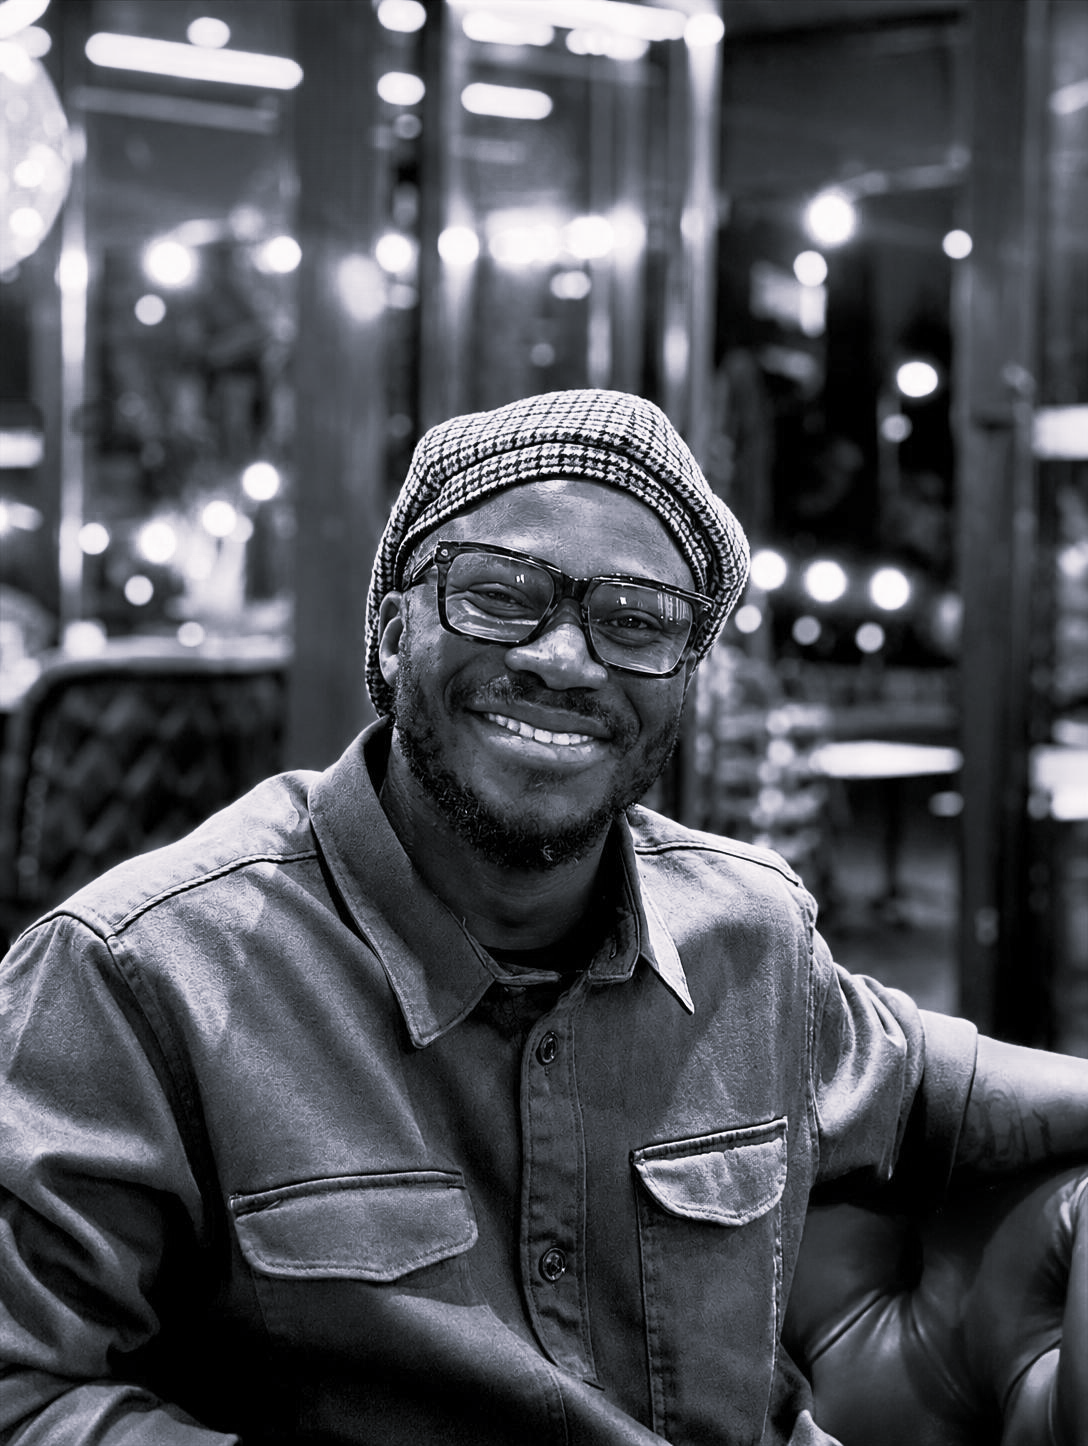
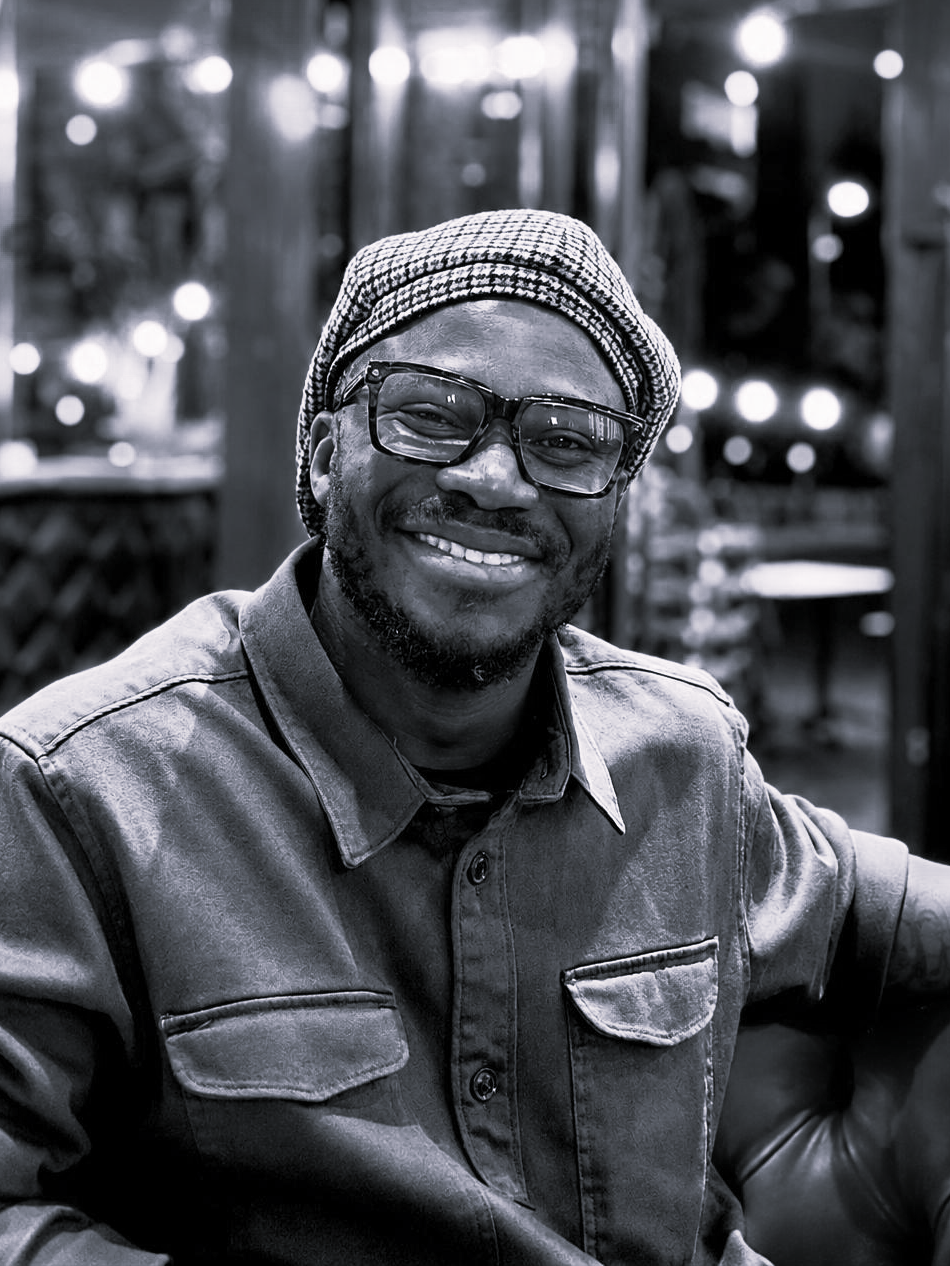
content: add founder biography modal and tighten portrait crop
Clicking the founder photo on the About page and homepage team
preview now opens a full-screen bio panel (FR/EN) with an accessible
open/close interaction. Also re-crop the portrait to better fill its
frame.

diff --git a/src/data/founder-bio.ts b/src/data/founder-bio.ts
@@ -1,0 +1,35 @@
+import type { Lang } from "../i18n/utils";
+
+export interface FounderBio {
+  name: string;
+  paragraphs: string[];
+  quote: string;
+  quoteAttribution: string;
+}
+
+export const founderBio: Record<Lang, FounderBio> = {
+  fr: {
+    name: "Déo-Gratias KPODO",
+    paragraphs: [
+      "Entrepreneur, stratège en communication, directeur artistique et spécialiste du développement des industries culturelles et créatives, Deo-Gratias KPODO est le fondateur et président de WEBLACK, une agence internationale de conseil en stratégie, branding, communication, direction créative et production d'événements. Depuis plus de quinze ans, il accompagne des maisons de mode, des entreprises, des institutions, des organisations internationales et des talents dans la conception de stratégies de marque, le développement d'image, le marketing, les relations publiques, le management de projets et le rayonnement international. Son expertise couvre notamment le branding, la communication institutionnelle et de crise, la direction artistique, le storytelling, la création d'identités visuelles, la production de contenus, le marketing digital, les relations médias, la gestion des réseaux sociaux, le management de talents, le développement commercial, la négociation de partenariats stratégiques, le sponsoring, la levée de fonds, la coordination d'équipes multiculturelles, la gestion de projets internationaux ainsi que la conception d'expériences premium.",
+      "À travers WEBLACK, il intervient également dans la création et le développement de plateformes créatives, la structuration d'organisations culturelles, l'accompagnement de dirigeants, le conseil en innovation, l'organisation de défilés de mode, d'expositions, de conférences, de masterclasses, de salons professionnels, de forums économiques et de rencontres B2B. Il pilote la conception de plans de communication à 360°, de dossiers de sponsoring, de stratégies de visibilité, de campagnes de relations presse, de dispositifs de communication digitale, de supports institutionnels, de présentations destinées aux investisseurs, ainsi que le développement de partenariats avec des acteurs publics, privés et internationaux.",
+      "Son parcours l'a conduit à jouer un rôle stratégique auprès de la Maison de Couture « Marie Kaba », où il contribue au développement de la marque, à son positionnement haut de gamme, à sa stratégie de communication, à la valorisation de son patrimoine créatif et à son expansion internationale. Il est également impliqué — selon les besoins — soit dans la conception, la direction artistique, la communication ou encore le développement de plusieurs événements en Afrique comme Le FIMO228 (Togo), La Nuit du Textile Africain (Mali), Du Rêve à la Réalité (Côte d'Ivoire), Les Awards du Mannequin africain (Côte d'Ivoire), Le Carrousel international de la Mode (Rep. du Congo), Folies de Mode (Burkina Faso), ZE DEFILE (France), African Fashion Show (Danemark) et d'autres encore. Sur la plupart des événements internationaux qui sont dédiés à la promotion des savoir-faire africains, il participe à la définition de la vision, à la communication, aux partenariats, aux relations institutionnelles, à la programmation, au protocole, à l'expérience des invités et au rayonnement de l'événement.",
+      "Visionnaire et bâtisseur d'écosystèmes, Deo-Gratias alias « Monsieur Weblack » œuvre à la professionnalisation des industries créatives africaines en développant des initiatives de management de talents, de formation, d'incubation, de coopération internationale et d'accompagnement stratégique. Inspiré par les standards des grandes maisons de luxe, il place l'excellence, l'innovation, l'authenticité et la transmission au cœur de son engagement, avec l'ambition de faire de WEBLACK une référence internationale au service de la créativité.",
+    ],
+    quote:
+      "Les plus grandes réussites ne naissent pas uniquement du talent, mais d'une vision capable d'inspirer, de rassembler et de construire dans la durée. Mon ambition est de créer des opportunités qui permettront aux talents africains de s'exprimer, d'innover et de rayonner avec l'excellence qu'ils méritent sur la scène internationale.",
+    quoteAttribution: "Deo-Gratias KPODO",
+  },
+  en: {
+    name: "Déo-Gratias KPODO",
+    paragraphs: [
+      "Entrepreneur, communications strategist, creative director and specialist in the development of cultural and creative industries, Deo-Gratias KPODO is the founder and president of WEBLACK, an international consulting agency specialising in strategy, branding, communications, creative direction and event production. For more than fifteen years, he has supported fashion houses, companies, institutions, international organisations and talents in developing brand strategy, image development, marketing, public relations, project management and international outreach. His expertise spans branding, institutional and crisis communications, creative direction, storytelling, visual identity creation, content production, digital marketing, media relations, social media management, talent management, business development, strategic partnership negotiation, sponsorship, fundraising, multicultural team coordination, international project management, and the design of premium experiences.",
+      "Through WEBLACK, he is also involved in creating and developing creative platforms, structuring cultural organisations, advising executives, and consulting on innovation, as well as organising fashion shows, exhibitions, conferences, masterclasses, trade fairs, economic forums and B2B meetings. He leads the design of 360° communication plans, sponsorship files, visibility strategies, press relations campaigns, digital communication systems, institutional materials and investor presentations, as well as the development of partnerships with public, private and international stakeholders.",
+      "His career has led him to play a strategic role with the Maison de Couture “Marie Kaba”, where he contributes to the brand's development, its premium positioning, its communication strategy, the promotion of its creative heritage and its international expansion. Depending on the project, he is also involved in the design, artistic direction, communication or development of several events across Africa, including Le FIMO228 (Togo), La Nuit du Textile Africain (Mali), Du Rêve à la Réalité (Côte d'Ivoire), Les Awards du Mannequin africain (Côte d'Ivoire), Le Carrousel international de la Mode (Republic of Congo), Folies de Mode (Burkina Faso), ZE DEFILE (France), African Fashion Show (Denmark) and others. On most international events dedicated to promoting African craftsmanship and expertise, he contributes to shaping the vision, communications, partnerships, institutional relations, programming, protocol, guest experience and overall visibility of the event.",
+      "A visionary and ecosystem builder, Deo-Gratias — known as “Monsieur Weblack” — works toward the professionalisation of African creative industries by developing initiatives in talent management, training, incubation, international cooperation and strategic support. Inspired by the standards of the great luxury houses, he places excellence, innovation, authenticity and knowledge transmission at the heart of his commitment, with the ambition of making WEBLACK an international reference in service of creativity.",
+    ],
+    quote:
+      "The greatest achievements are not born of talent alone, but of a vision capable of inspiring, uniting and building for the long term. My ambition is to create opportunities that allow African talents to express themselves, innovate and shine with the excellence they deserve on the international stage.",
+    quoteAttribution: "Deo-Gratias KPODO",
+  },
+};

diff --git a/src/scripts/founder-bio.ts b/src/scripts/founder-bio.ts
@@ -1,0 +1,68 @@
+let initialized = false;
+
+export function initFounderBio() {
+  if (initialized) return;
+  initialized = true;
+
+  const panel = document.getElementById("founder-bio-panel");
+  const closeBtn = panel?.querySelector<HTMLButtonElement>("[data-founder-bio-close]");
+  const triggers = document.querySelectorAll<HTMLElement>("[data-founder-bio-trigger]");
+  if (!panel || !closeBtn || triggers.length === 0) return;
+
+  const prefersReducedMotion = window.matchMedia("(prefers-reduced-motion: reduce)").matches;
+  let isOpen = false;
+  let lastFocused: HTMLElement | null = null;
+
+  async function openBio(trigger: HTMLElement) {
+    isOpen = true;
+    lastFocused = trigger;
+    panel!.setAttribute("aria-hidden", "false");
+    panel!.removeAttribute("inert");
+    panel!.classList.remove("pointer-events-none");
+    panel!.scrollTop = 0;
+    document.body.style.overflow = "hidden";
+
+    if (prefersReducedMotion) {
+      panel!.style.opacity = "1";
+    } else {
+      const { gsap } = await import("gsap");
+      gsap.to(panel, { opacity: 1, duration: 0.4, ease: "power2.out" });
+    }
+    closeBtn!.focus();
+  }
+
+  async function closeBio() {
+    isOpen = false;
+    panel!.setAttribute("aria-hidden", "true");
+    panel!.setAttribute("inert", "");
+    document.body.style.overflow = "";
+
+    if (prefersReducedMotion) {
+      panel!.style.opacity = "0";
+      panel!.classList.add("pointer-events-none");
+    } else {
+      const { gsap } = await import("gsap");
+      gsap.to(panel, {
+        opacity: 0,
+        duration: 0.3,
+        ease: "power2.in",
+        onComplete: () => panel!.classList.add("pointer-events-none"),
+      });
+    }
+    lastFocused?.focus();
+  }
+
+  triggers.forEach((trigger) => {
+    trigger.addEventListener("click", () => openBio(trigger));
+  });
+
+  closeBtn.addEventListener("click", () => closeBio());
+
+  panel.addEventListener("click", (event) => {
+    if (event.target === panel) closeBio();
+  });
+
+  document.addEventListener("keydown", (event) => {
+    if (event.key === "Escape" && isOpen) closeBio();
+  });
+}

diff --git a/src/i18n/ui.ts b/src/i18n/ui.ts
@@ -108,6 +108,7 @@ export const ui = {
     "about.founder.eyebrow": "Fondateur",
     "about.founder.name": "Deo-Gratias Kpodo",
     "about.founder.role": "Fondateur & Directeur créatif",
+    "about.founder.bio.cta": "Lire la biographie",
     "about.network.title": "Réseau & collaborations",
     "about.network.body":
       "WEBLACK a construit des collaborations réelles avec des événements et organisations de la scène créative, notamment le Ze Défilé by WaxFashion et la Nuit du Textile Africain (NTA).",
@@ -414,6 +415,7 @@ export const ui = {
     "about.founder.eyebrow": "Founder",
     "about.founder.name": "Deo-Gratias Kpodo",
     "about.founder.role": "Founder & Creative Director",
+    "about.founder.bio.cta": "Read the biography",
     "about.network.title": "Network & collaborations",
     "about.network.body":
       "WEBLACK has built real collaborations with events and organisations across the creative scene, including the Ze Défilé by WaxFashion and the Nuit du Textile Africain (NTA).",
